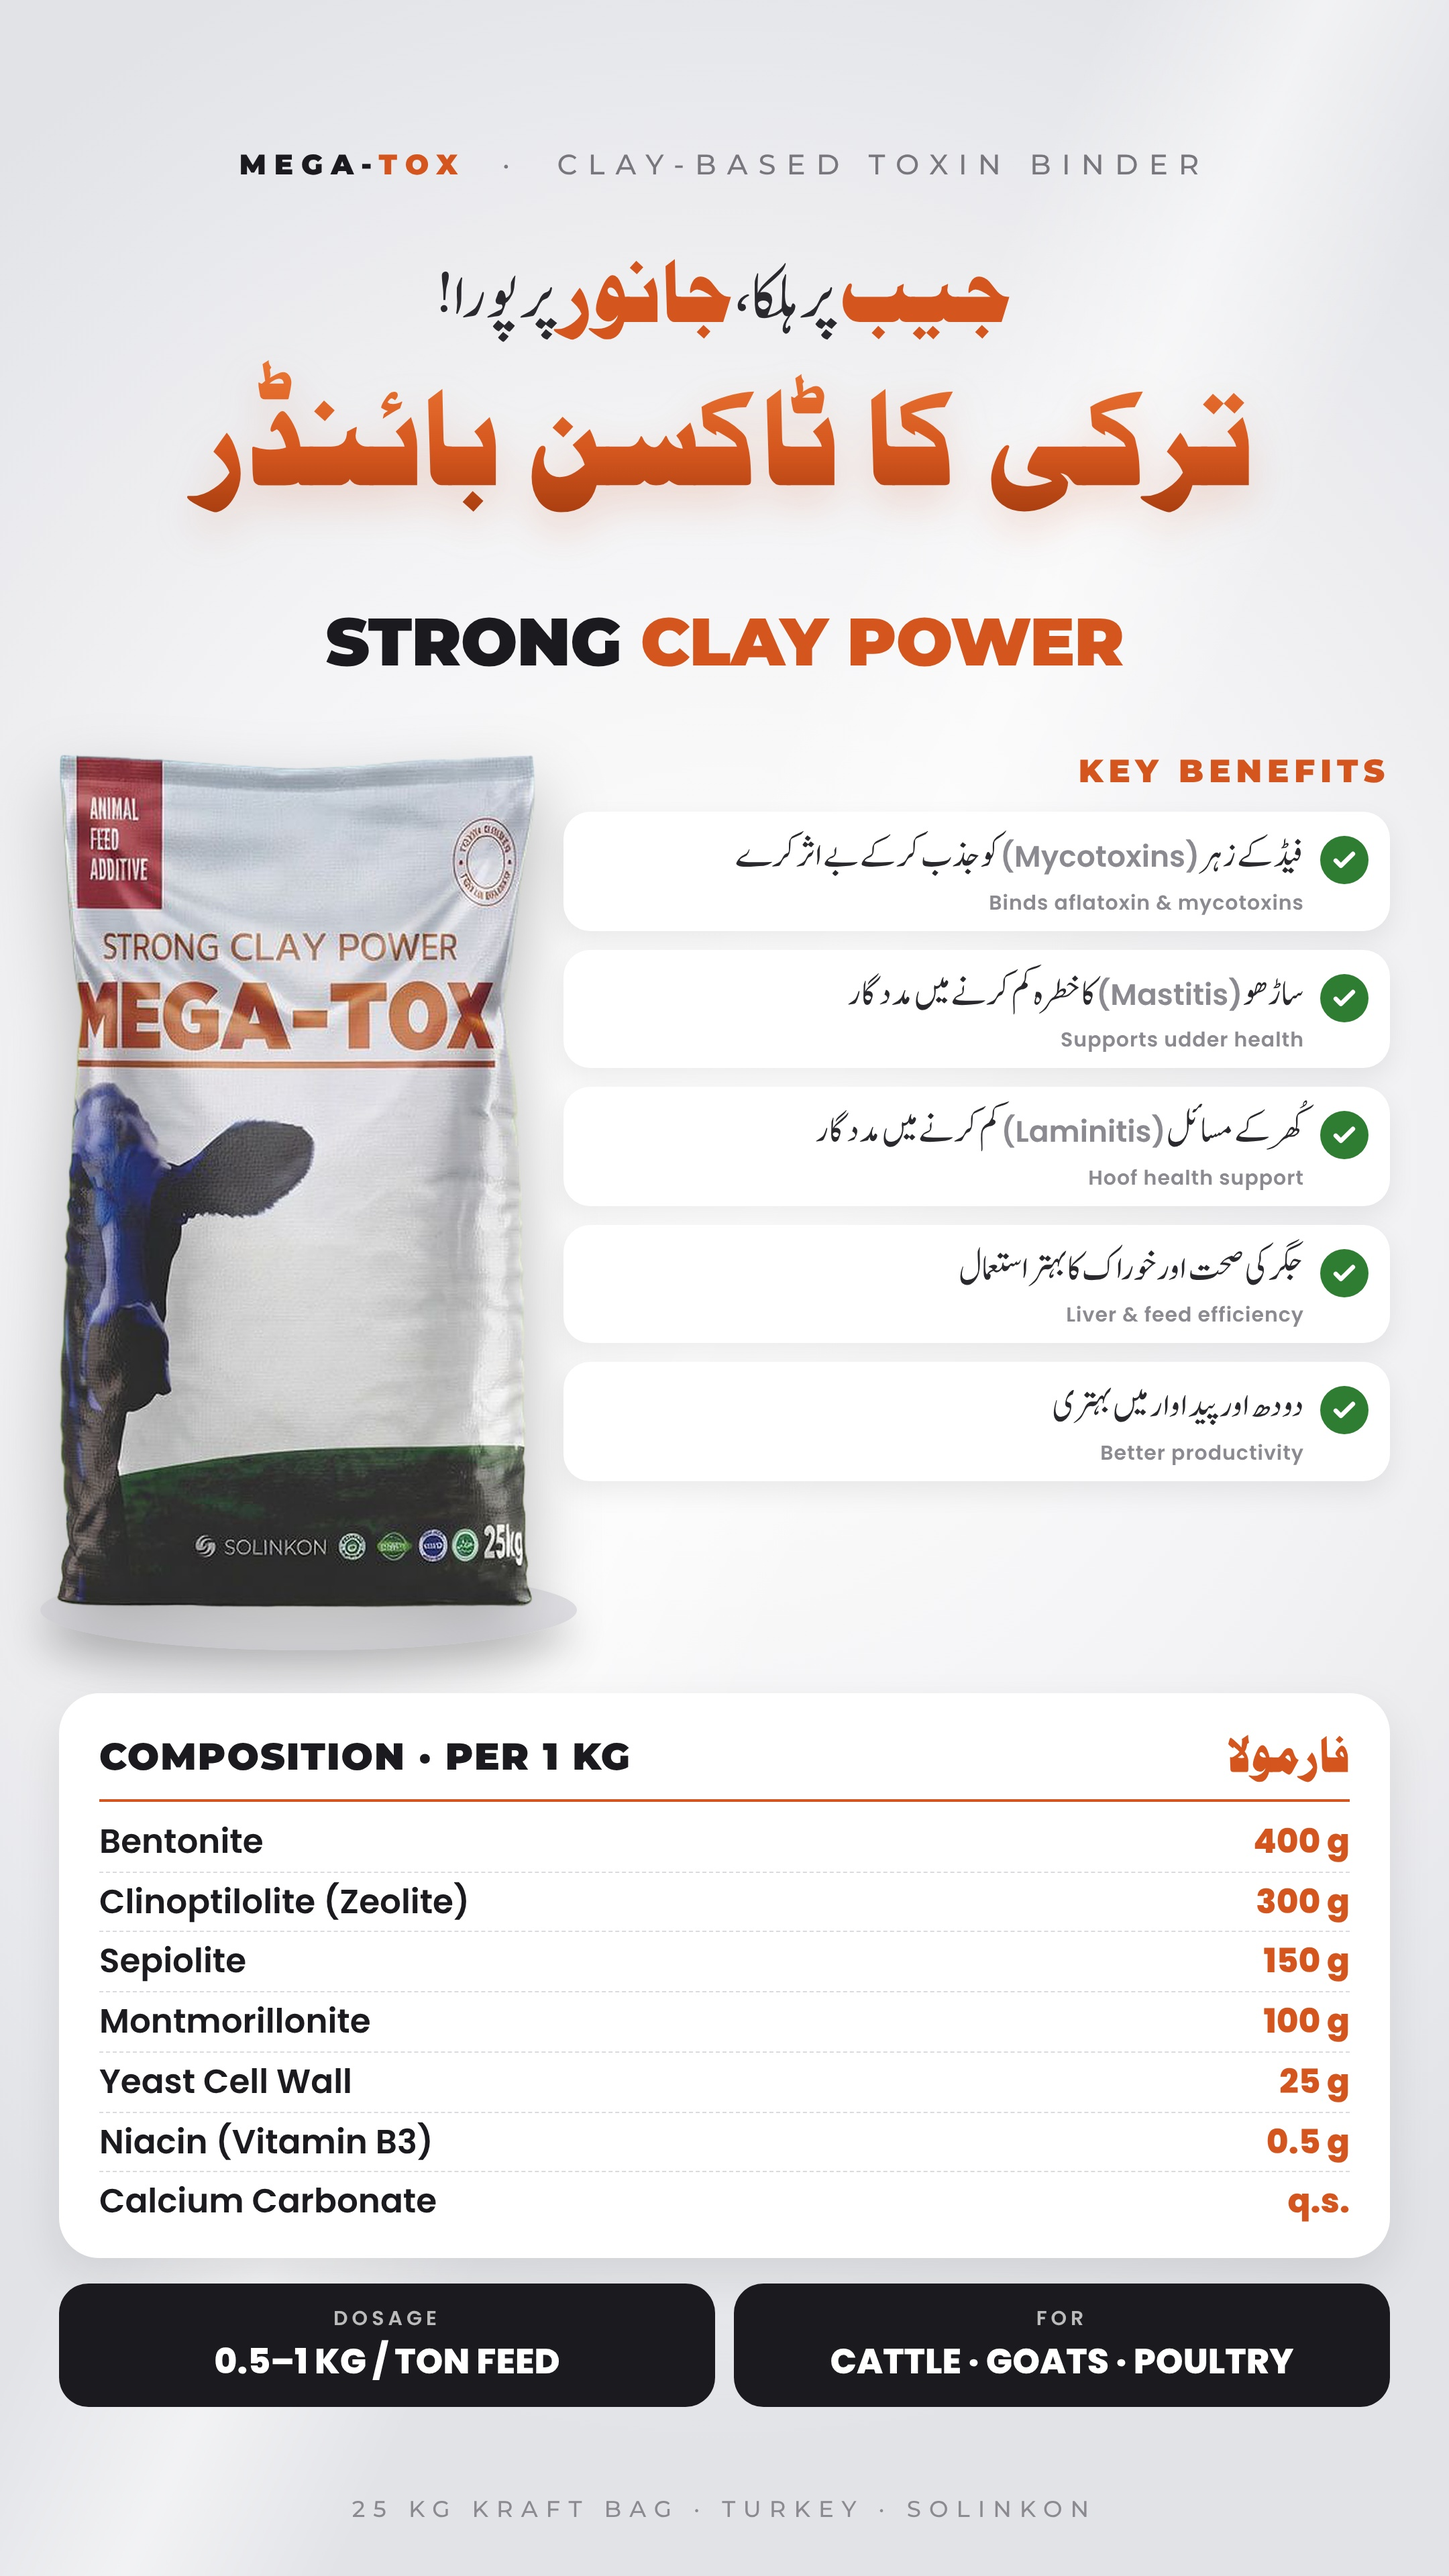
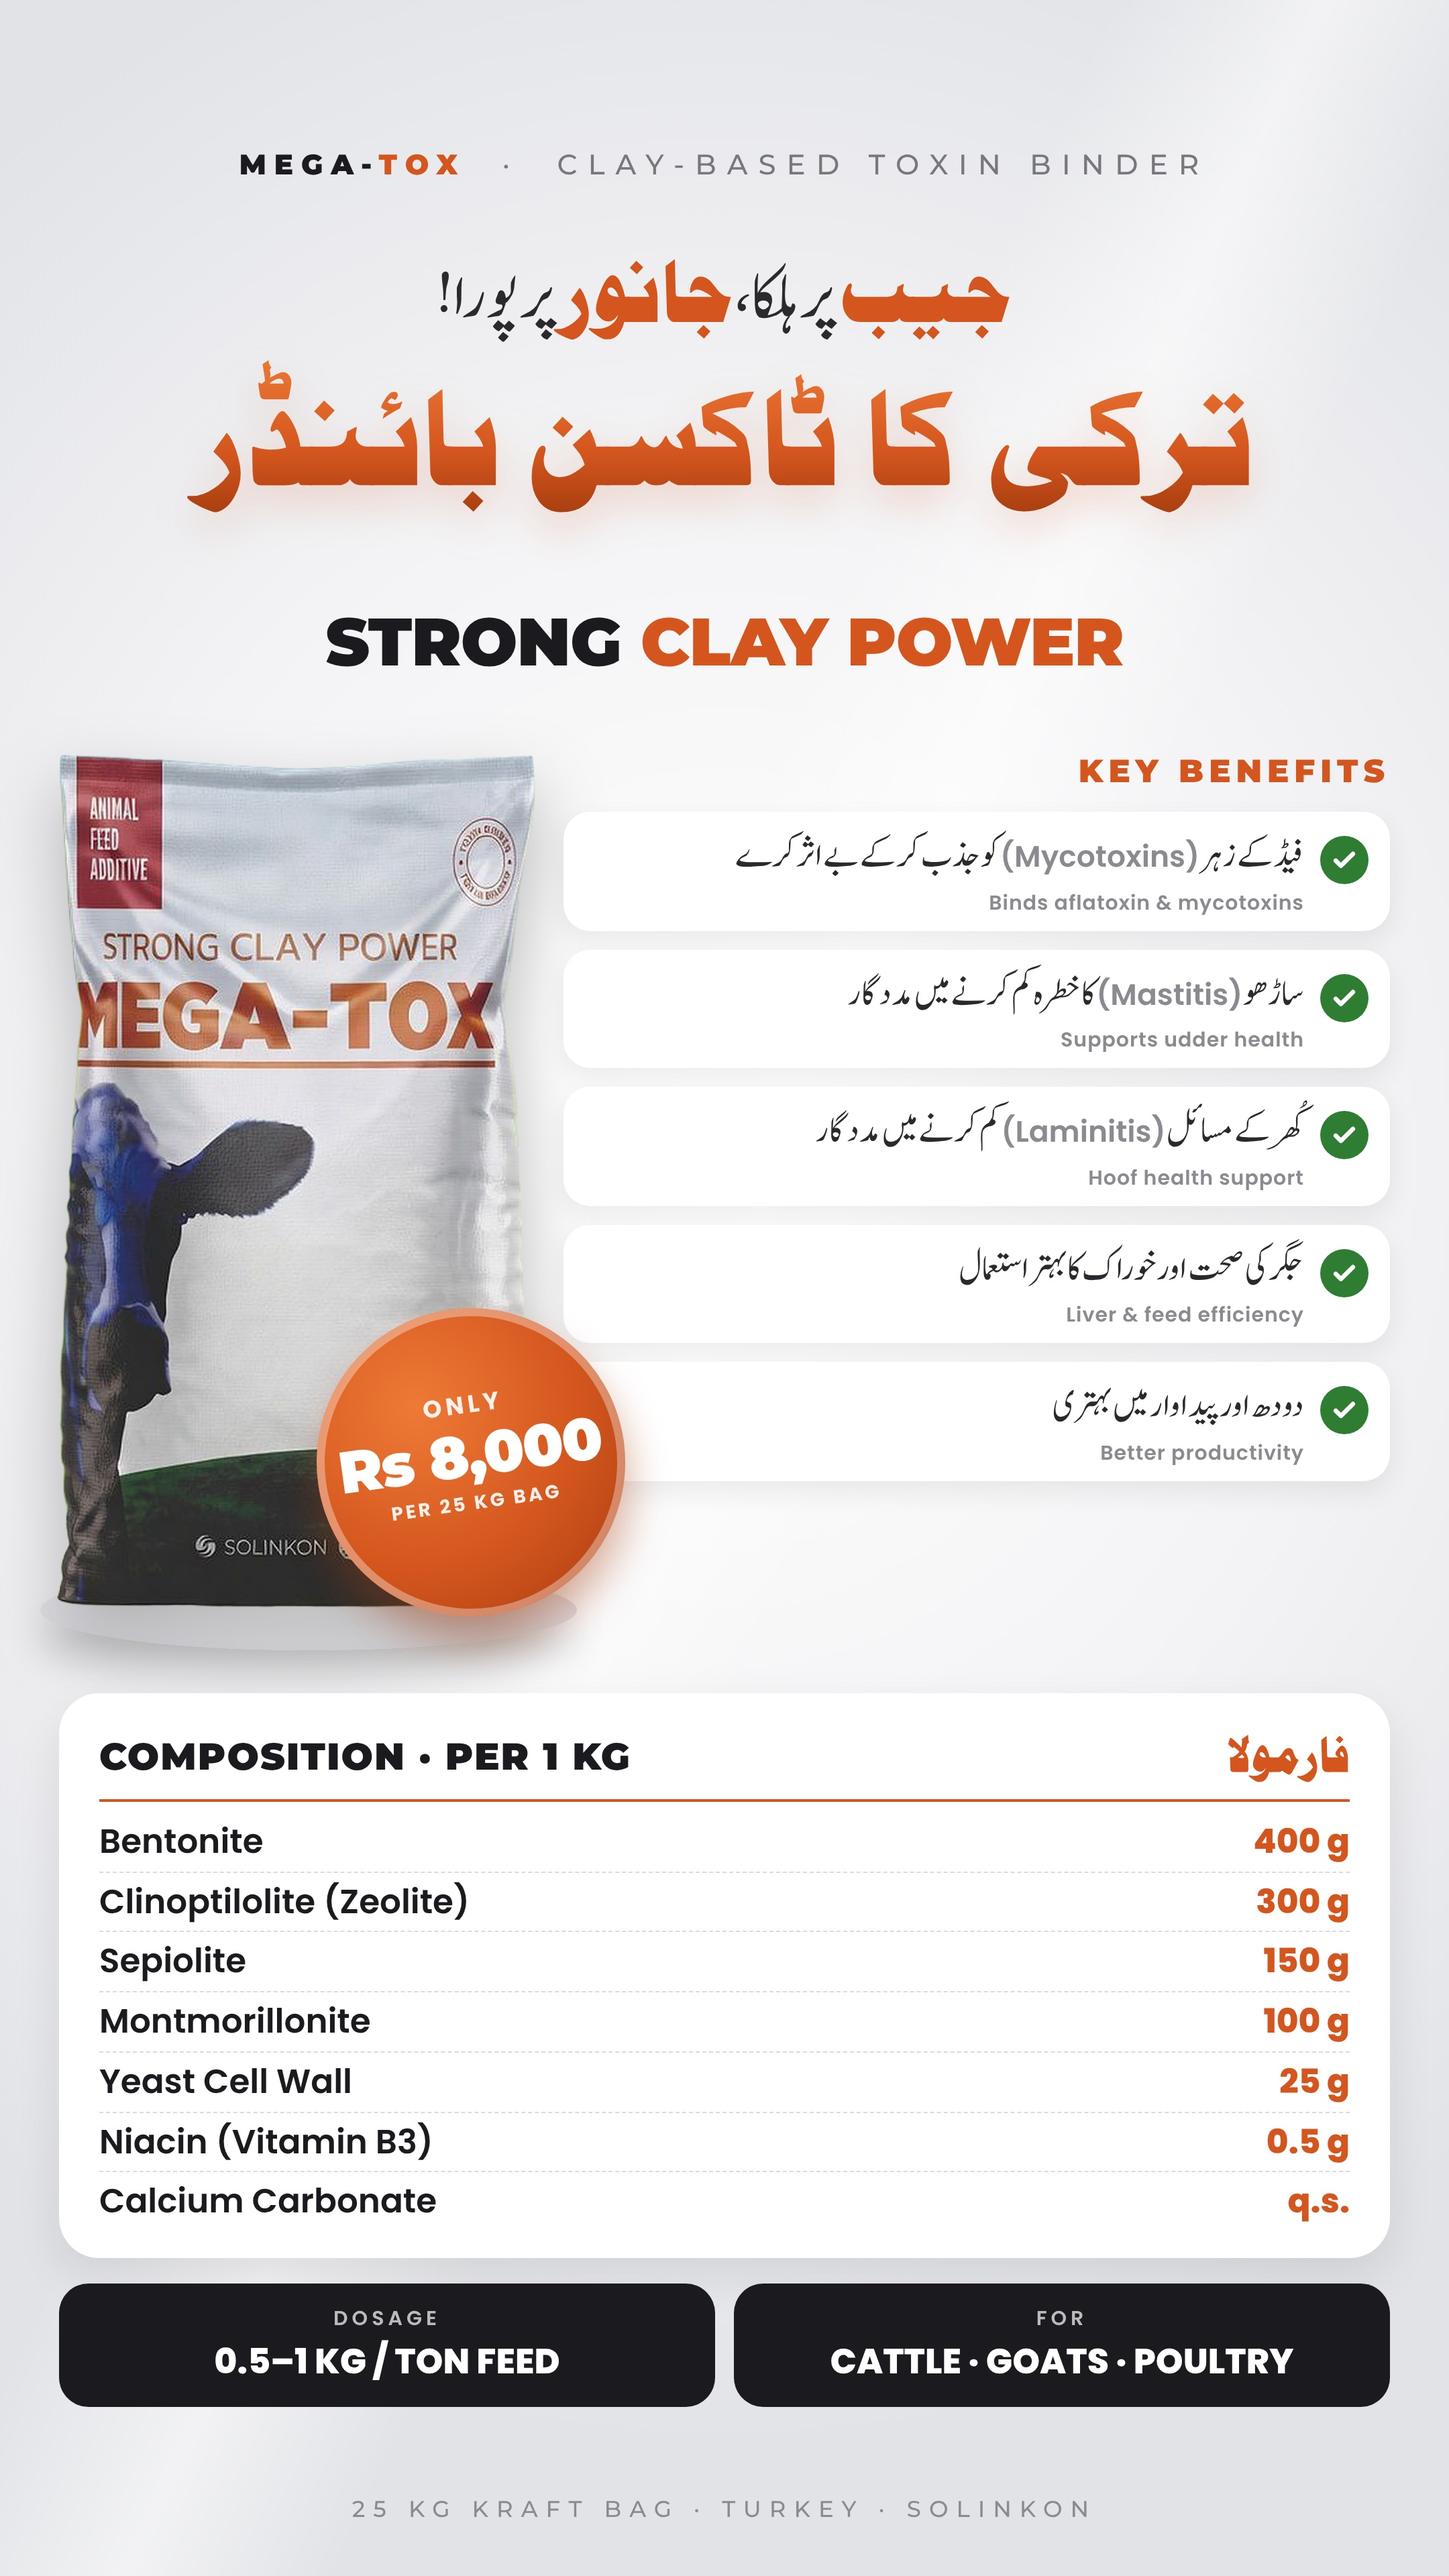
Mega-Tox detail post: Rs 8,000 per 25 kg price badge
Claude-Session: https://claude.ai/code/session_0139To4Bi5mkGo2BmfVPNRP3

Changed region(s): [[0.2171, 0.5, 0.4653, 0.6562]]

diff --git a/tools/posts/megatox_detail.py b/tools/posts/megatox_detail.py
@@ -47,6 +47,8 @@ css=f"""*{{margin:0;padding:0;box-sizing:border-box}}
 .use{{position:absolute;left:44px;right:44px;top:1702px;display:flex;gap:14px}}
 .use div{{flex:1;background:{INK};color:#fff;border-radius:22px;padding:14px 18px;text-align:center}}
 .use small{{display:block;font:600 15px Poppins;letter-spacing:3px;opacity:.7}} .use b{{display:block;font:800 26px Poppins;margin-top:2px}}
+.price{{position:absolute;left:236px;top:975px;width:230px;height:230px;border-radius:50%;background:radial-gradient(circle at 35% 30%,{O2},{O} 55%,{OD});color:#fff;text-align:center;padding-top:58px;white-space:nowrap;box-shadow:0 18px 30px rgba(166,60,15,.4),inset 0 0 0 6px rgba(255,255,255,.35);transform:rotate(-8deg);z-index:3}}
+.price small{{display:block;font:700 18px Poppins;letter-spacing:3px;opacity:.9}} .price b{{display:block;font:900 44px/1.1 Montserrat;letter-spacing:-1px}} .price i{{display:block;font:700 14px Poppins;font-style:normal;letter-spacing:2px;opacity:.9;margin-top:2px}}
 .ft{{position:absolute;bottom:40px;left:0;right:0;text-align:center;font:500 17px Montserrat;letter-spacing:6px;color:#8a8a90}}"""
 bens="".join(f'<div class="b"><div class="c">{chk}</div><div class="t">{u}<small>{e}</small></div></div>' for u,e in ben)
 rows="".join(f'<div class="r"><span>{a}</span><b>{b}</b></div>' for a,b in form)
@@ -56,7 +58,7 @@ html=f"""<div id="p"><div class="sheen"></div>
 <div class="hero"><span>ترکی</span><span>کا</span><span>ٹاکسن</span><span>بائنڈر</span></div>
 <div class="en">STRONG <i>CLAY POWER</i></div>
 <div class="disc"></div><img class="bag" src="file://{bag}">
-<div class="ben"><div class="bh">KEY BENEFITS</div>{bens}</div>
+<div class="price"><small>ONLY</small><b>Rs 8,000</b><i>PER 25 KG BAG</i></div><div class="ben"><div class="bh">KEY BENEFITS</div>{bens}</div>
 <div class="fm"><div class="h"><b>COMPOSITION · PER 1 KG</b><span>فارمولا</span></div>{rows}</div>
 <div class="use"><div><small>DOSAGE</small><b>0.5–1 KG / TON FEED</b></div><div><small>FOR</small><b>CATTLE · GOATS · POULTRY</b></div></div>
 <div class="ft">25 KG KRAFT BAG · TURKEY · SOLINKON</div></div>"""
